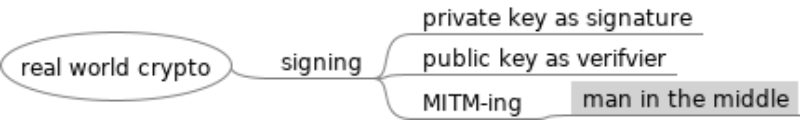
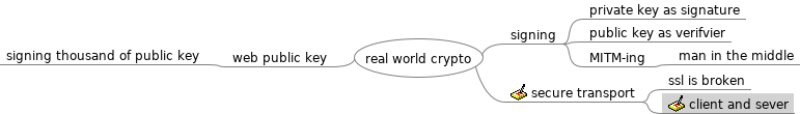
update lecture notes

Changed region(s): [[0.0, 0.0526, 1.0, 0.9737], [0.5, 0.6579, 1.0, 1.0]]

diff --git a/real world crypto.mm b/real world crypto.mm
@@ -8,5 +8,53 @@
 <node CREATED="1651913582360" ID="ID_910964901" MODIFIED="1651913586157" TEXT="man in the middle"/>
 </node>
 </node>
+<node CREATED="1651913764578" ID="ID_633512182" MODIFIED="1651913768642" POSITION="left" TEXT="web public key">
+<node CREATED="1651913768844" ID="ID_1826643652" MODIFIED="1651913779670" TEXT="signing thousand of public key"/>
+</node>
+<node CREATED="1651914110559" ID="ID_1170781128" MODIFIED="1651914188176" POSITION="right" TEXT="secure transport">
+<richcontent TYPE="NOTE"><html>
+  <head>
+    
+  </head>
+  <body>
+    <p>
+      SSL dibuat buat web
+    </p>
+    <p>
+      TLS paling baru, TLS 1.3
+    </p>
+  </body>
+</html>
+</richcontent>
+<node CREATED="1651915133299" ID="ID_495962841" MODIFIED="1651915144552" TEXT="ssl is broken"/>
+<node CREATED="1651915213318" ID="ID_512611289" MODIFIED="1651915328550" TEXT="client and sever">
+<richcontent TYPE="NOTE"><html>
+  <head>
+    
+  </head>
+  <body>
+    <p>
+      client initiate the connection
+    </p>
+    <p>
+      server yg nunggu di kontak
+    </p>
+    <p>
+      
+    </p>
+    <p>
+      client butuh info: FQDN sama port
+    </p>
+    <p>
+      
+    </p>
+    <p>
+      create a session
+    </p>
+  </body>
+</html>
+</richcontent>
+</node>
+</node>
 </node>
 </map>
